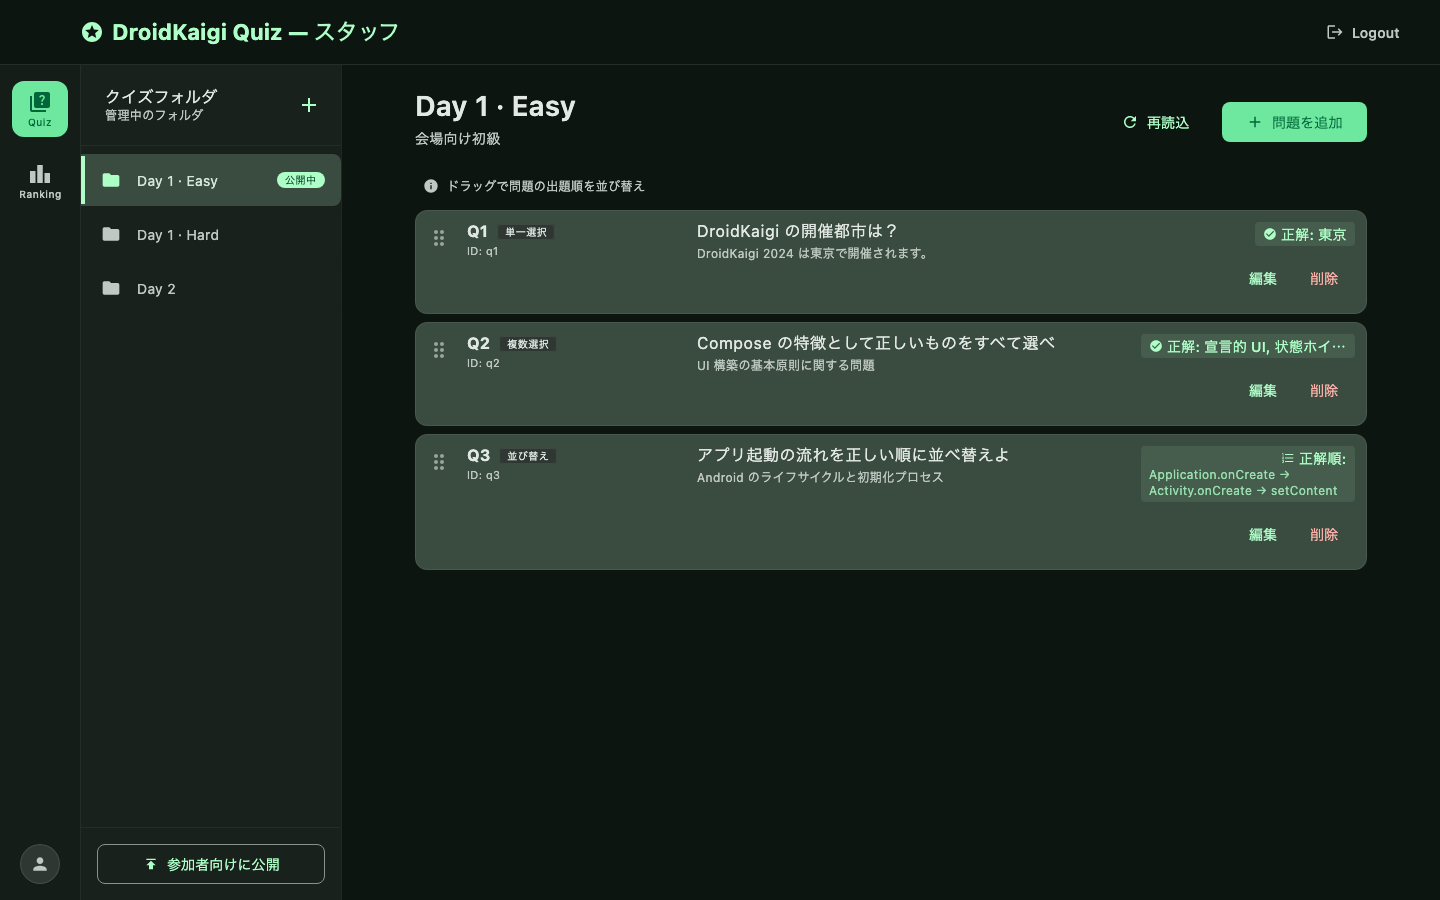
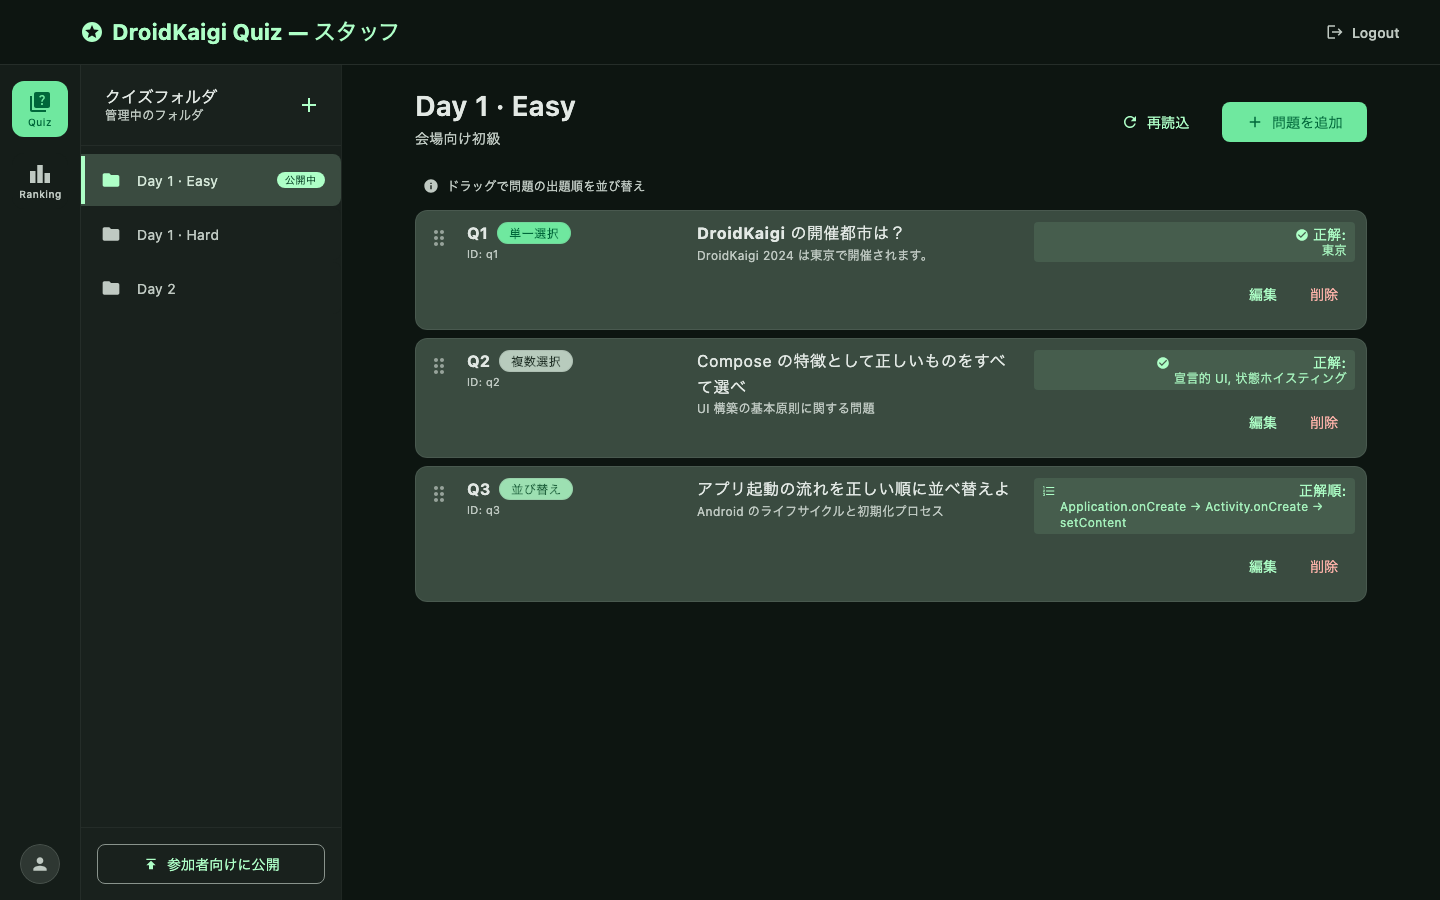
Improve staff question list and editor readability from Stitch.
Widen the editor, add explanation preview, render list prompts as Markdown, color-code type chips, and make correct answers wrap; document Stitch-first UI workflow.

diff --git a/feature/staff/src/commonMain/kotlin/com/droidkaigi/quiz/feature/staff/quiz/StaffQuizScreen.kt b/feature/staff/src/commonMain/kotlin/com/droidkaigi/quiz/feature/staff/quiz/StaffQuizScreen.kt
@@ -13,6 +13,7 @@ import androidx.compose.foundation.layout.fillMaxHeight
 import androidx.compose.foundation.layout.fillMaxSize
 import androidx.compose.foundation.layout.fillMaxWidth
 import androidx.compose.foundation.layout.height
+import androidx.compose.foundation.layout.heightIn
 import androidx.compose.foundation.layout.padding
 import androidx.compose.foundation.layout.size
 import androidx.compose.foundation.layout.width
@@ -38,19 +39,24 @@ import androidx.compose.runtime.setValue
 import androidx.compose.ui.Alignment
 import androidx.compose.ui.Modifier
 import androidx.compose.ui.draw.clip
+import androidx.compose.ui.draw.clipToBounds
 import androidx.compose.ui.draw.shadow
 import androidx.compose.ui.text.font.FontWeight
 import androidx.compose.ui.text.style.TextOverflow
 import androidx.compose.ui.unit.dp
 import androidx.compose.ui.unit.sp
 import androidx.lifecycle.viewmodel.compose.viewModel
+import com.droidkaigi.quiz.core.domain.model.MultipleChoice
 import com.droidkaigi.quiz.core.domain.model.Question
 import com.droidkaigi.quiz.core.domain.model.Reorder
+import com.droidkaigi.quiz.core.domain.model.SingleChoice
+import com.droidkaigi.quiz.core.ui.components.QuizMarkdownText
 import com.droidkaigi.quiz.core.ui.theme.QuizTokens
 import com.droidkaigi.quiz.feature.staff.StaffConfirmDialog
-import com.droidkaigi.quiz.feature.staff.components.StaffBadge
-import com.droidkaigi.quiz.feature.staff.components.StaffContentPane
 import com.droidkaigi.quiz.feature.staff.components.StaffFilledButton
+import com.droidkaigi.quiz.feature.staff.components.StaffQuestionTypeChip
+import com.droidkaigi.quiz.feature.staff.components.StaffQuestionTypeTone
+import com.droidkaigi.quiz.feature.staff.components.StaffContentPane
 import com.droidkaigi.quiz.feature.staff.components.StaffSectionHeader
 import com.droidkaigi.quiz.feature.staff.components.StaffTextButton
 import com.droidkaigi.quiz.feature.staff.components.staffDividerColor
@@ -261,7 +267,10 @@ internal fun StaffQuestionCard(
                     fontWeight = FontWeight.Bold,
                 )
                 Spacer(modifier = Modifier.width(QuizTokens.spacingSmall))
-                StaffBadge(text = questionTypeLabel(question))
+                StaffQuestionTypeChip(
+                    text = questionTypeLabel(question),
+                    type = questionTypeTone(question),
+                )
             }
             Spacer(modifier = Modifier.height(2.dp))
             Text(
@@ -272,13 +281,13 @@ internal fun StaffQuestionCard(
             )
         }
         Spacer(modifier = Modifier.width(QuizTokens.spacingMedium))
-        Column(modifier = Modifier.weight(2f)) {
-            Text(
-                text = question.prompt,
-                style = MaterialTheme.typography.bodyLarge,
-                maxLines = 2,
-                overflow = TextOverflow.Ellipsis,
-            )
+        Column(
+            modifier = Modifier
+                .weight(1.5f)
+                .heightIn(max = 96.dp)
+                .clipToBounds(),
+        ) {
+            QuizMarkdownText(question.prompt)
             if (question.explanationMarkdown.isNotBlank()) {
                 Spacer(modifier = Modifier.height(4.dp))
                 Text(
@@ -292,7 +301,7 @@ internal fun StaffQuestionCard(
         }
         Spacer(modifier = Modifier.width(QuizTokens.spacingMedium))
         Column(
-            modifier = Modifier.weight(1f),
+            modifier = Modifier.weight(1.5f),
             horizontalAlignment = Alignment.End,
         ) {
             StaffCorrectAnswerChip(question = question)
@@ -315,12 +324,13 @@ private fun StaffCorrectAnswerChip(question: Question) {
     val answer = correctAnswerText(question)
     Column(
         modifier = Modifier
+            .fillMaxWidth()
             .clip(RoundedCornerShape(4.dp))
             .background(MaterialTheme.colorScheme.primary.copy(alpha = 0.1f))
             .padding(horizontal = QuizTokens.spacingSmall, vertical = 4.dp),
         horizontalAlignment = Alignment.End,
     ) {
-        Row(verticalAlignment = Alignment.CenterVertically) {
+        Row(verticalAlignment = Alignment.Top) {
             Icon(
                 imageVector = if (question is Reorder) {
                     Icons.Default.FormatListNumbered
@@ -329,26 +339,31 @@ private fun StaffCorrectAnswerChip(question: Question) {
                 },
                 contentDescription = null,
                 tint = MaterialTheme.colorScheme.primary,
-                modifier = Modifier.size(14.dp),
+                modifier = Modifier
+                    .padding(top = 2.dp)
+                    .size(14.dp),
             )
             Spacer(modifier = Modifier.width(4.dp))
-            Text(
-                text = if (question is Reorder) "正解順:" else "正解: $answer",
-                style = MaterialTheme.typography.bodyMedium,
-                fontWeight = FontWeight.Medium,
-                color = MaterialTheme.colorScheme.primary,
-                maxLines = 1,
-                overflow = TextOverflow.Ellipsis,
-            )
-        }
-        if (question is Reorder) {
-            Text(
-                text = answer,
-                style = MaterialTheme.typography.bodySmall,
-                color = MaterialTheme.colorScheme.primary.copy(alpha = 0.8f),
-                maxLines = 2,
-                overflow = TextOverflow.Ellipsis,
-            )
+            Column(horizontalAlignment = Alignment.End) {
+                Text(
+                    text = if (question is Reorder) "正解順:" else "正解:",
+                    style = MaterialTheme.typography.bodyMedium,
+                    fontWeight = FontWeight.Medium,
+                    color = MaterialTheme.colorScheme.primary,
+                )
+                Text(
+                    text = answer,
+                    style = MaterialTheme.typography.bodySmall,
+                    color = MaterialTheme.colorScheme.primary.copy(alpha = 0.9f),
+                    softWrap = true,
+                )
+            }
         }
     }
+}
+
+private fun questionTypeTone(question: Question): StaffQuestionTypeTone = when (question) {
+    is SingleChoice -> StaffQuestionTypeTone.SingleChoice
+    is MultipleChoice -> StaffQuestionTypeTone.MultipleChoice
+    is Reorder -> StaffQuestionTypeTone.Reorder
 }

diff --git a/feature/staff/src/commonMain/kotlin/com/droidkaigi/quiz/feature/staff/components/StaffComponents.kt b/feature/staff/src/commonMain/kotlin/com/droidkaigi/quiz/feature/staff/components/StaffComponents.kt
@@ -33,6 +33,7 @@ import androidx.compose.ui.Modifier
 import androidx.compose.ui.draw.clip
 import androidx.compose.ui.graphics.Color
 import androidx.compose.ui.graphics.vector.ImageVector
+import androidx.compose.ui.text.font.FontWeight
 import androidx.compose.ui.unit.Dp
 import androidx.compose.ui.unit.dp
 import androidx.compose.ui.unit.sp
@@ -138,7 +139,7 @@ fun StaffOutlinedButton(
     }
 }
 
-/** Neutral metadata chip (question type, question id). */
+/** Neutral metadata chip (question id, etc.). */
 @Composable
 fun StaffBadge(text: String, modifier: Modifier = Modifier) {
     Text(
@@ -152,6 +153,43 @@ fun StaffBadge(text: String, modifier: Modifier = Modifier) {
             .border(1.dp, staffDividerColor(), RoundedCornerShape(4.dp))
             .padding(horizontal = QuizTokens.spacingSmall, vertical = 2.dp),
     )
+}
+
+/**
+ * Color-coded question-type chip (Stitch: larger pill, distinct container tones).
+ * Single → primaryContainer · Multiple → secondary · Reorder → tertiaryContainer.
+ */
+@Composable
+fun StaffQuestionTypeChip(text: String, type: StaffQuestionTypeTone, modifier: Modifier = Modifier) {
+    val background = when (type) {
+        StaffQuestionTypeTone.SingleChoice -> MaterialTheme.colorScheme.primaryContainer
+        // secondaryContainer matches question-card fill; use secondary for contrast on cards.
+        StaffQuestionTypeTone.MultipleChoice -> MaterialTheme.colorScheme.secondary
+        StaffQuestionTypeTone.Reorder -> MaterialTheme.colorScheme.tertiaryContainer
+    }
+    val content = when (type) {
+        StaffQuestionTypeTone.SingleChoice -> MaterialTheme.colorScheme.onPrimaryContainer
+        StaffQuestionTypeTone.MultipleChoice -> MaterialTheme.colorScheme.onSecondary
+        StaffQuestionTypeTone.Reorder -> MaterialTheme.colorScheme.onTertiaryContainer
+    }
+    Text(
+        text = text,
+        style = MaterialTheme.typography.labelMedium,
+        fontSize = 12.sp,
+        fontWeight = FontWeight.Bold,
+        color = content,
+        modifier = modifier
+            .clip(CircleShape)
+            .background(background)
+            .border(1.dp, staffDividerColor(), CircleShape)
+            .padding(horizontal = 12.dp, vertical = 4.dp),
+    )
+}
+
+enum class StaffQuestionTypeTone {
+    SingleChoice,
+    MultipleChoice,
+    Reorder,
 }
 
 /** Accent pill marking the folder participants currently see. */

diff --git a/feature/staff/src/commonMain/kotlin/com/droidkaigi/quiz/feature/staff/quiz/StaffQuestionEditorPanel.kt b/feature/staff/src/commonMain/kotlin/com/droidkaigi/quiz/feature/staff/quiz/StaffQuestionEditorPanel.kt
@@ -64,6 +64,7 @@ fun StaffQuestionEditorPanel(
 ) {
     var typeMenuExpanded by remember { mutableStateOf(false) }
     var showPromptPreview by remember { mutableStateOf(false) }
+    var showExplanationPreview by remember { mutableStateOf(false) }
 
     val borderColor = staffDividerColor()
     Column(
@@ -171,7 +172,7 @@ fun StaffQuestionEditorPanel(
                     colors = staffFieldColors(),
                     modifier = Modifier
                         .fillMaxWidth()
-                        .height(96.dp),
+                        .height(144.dp),
                 )
                 if (showPromptPreview && draft.prompt.isNotBlank()) {
                     QuizMarkdownText(draft.prompt)
@@ -189,7 +190,18 @@ fun StaffQuestionEditorPanel(
             }
 
             Column(verticalArrangement = Arrangement.spacedBy(QuizTokens.spacingSmall)) {
-                StaffFieldLabel(text = "解説", hint = "(Markdown)")
+                Row(
+                    modifier = Modifier.fillMaxWidth(),
+                    horizontalArrangement = Arrangement.SpaceBetween,
+                    verticalAlignment = Alignment.Bottom,
+                ) {
+                    StaffFieldLabel(text = "解説", hint = "(Markdown)")
+                    StaffTextButton(
+                        text = "プレビュー",
+                        icon = Icons.Default.Visibility,
+                        onClick = { showExplanationPreview = !showExplanationPreview },
+                    )
+                }
                 OutlinedTextField(
                     value = draft.explanationMarkdown,
                     onValueChange = { onDraftChange(draft.copy(explanationMarkdown = it)) },
@@ -197,8 +209,11 @@ fun StaffQuestionEditorPanel(
                     colors = staffFieldColors(),
                     modifier = Modifier
                         .fillMaxWidth()
-                        .height(80.dp),
+                        .height(120.dp),
                 )
+                if (showExplanationPreview && draft.explanationMarkdown.isNotBlank()) {
+                    QuizMarkdownText(draft.explanationMarkdown)
+                }
             }
         }
         StaffHorizontalDivider(alpha = 0.15f)

diff --git a/feature/staff/src/jvmTest/kotlin/com/droidkaigi/quiz/feature/staff/StaffScreenshotJvmUiTest.kt b/feature/staff/src/jvmTest/kotlin/com/droidkaigi/quiz/feature/staff/StaffScreenshotJvmUiTest.kt
@@ -339,7 +339,7 @@ private val sampleShellState = StaffShellUiState(
 private val sampleQuestions = listOf(
     SingleChoice(
         id = "q1",
-        prompt = "DroidKaigi の開催都市は？",
+        prompt = "**DroidKaigi** の開催都市は？",
         explanationMarkdown = "DroidKaigi 2024 は東京で開催されます。",
         options = listOf(
             ChoiceOption("opt1", "東京"),
@@ -383,8 +383,8 @@ private val sampleRanking = listOf(
 
 private val sampleEditorDraft = StaffQuestionDraft(
     id = "q1",
-    prompt = "DroidKaigi の開催都市は？",
-    explanationMarkdown = "東京で開催されます。",
+    prompt = "**DroidKaigi** の開催都市は？",
+    explanationMarkdown = "東京で開催されます。`venue` は会場側の設定です。",
     type = StaffQuestionType.SingleChoice,
     items = listOf(
         StaffListItem("opt1", "東京"),

diff --git a/core/ui/src/commonMain/kotlin/com/droidkaigi/quiz/core/ui/theme/QuizTokens.kt b/core/ui/src/commonMain/kotlin/com/droidkaigi/quiz/core/ui/theme/QuizTokens.kt
@@ -85,7 +85,7 @@ object QuizTokens {
     // Staff console layout metrics (1440x900 desktop reference).
     val staffNavRailWidth = 80.dp
     val staffSidebarWidth = 260.dp
-    val staffEditorPanelWidth = 450.dp
+    val staffEditorPanelWidth = 560.dp
     val staffContentMaxWidth = 1000.dp
     val staffTopBarHeight = 64.dp
     val staffTableRowHeight = 56.dp

diff --git a/.cursor/skills/droidkaigi-quiz/SKILL.md b/.cursor/skills/droidkaigi-quiz/SKILL.md
@@ -9,18 +9,20 @@ description: Master workflow for DroidKaigi 2026 Quiz — new screens, features,
 
 1. Read AC in `docs/SPEC.md`
 2. Confirm module from `AGENTS.md`
+3. Visual UI changes: follow `.cursor/rules/quiz-stitch-source.mdc` — **feedback → Stitch → implement from Stitch** (do not finalize layout in code first)
 
 ## Order
 
 1. **Domain** — models, `QuizScorer` / use cases, `commonTest`
 2. **Data** — repository if needed, wire `AppDependencies.shared`
-3. **UI** — tokens/components in `core:ui` if reusable
-4. **Feature** — Screen + ViewModel (MVI 4 files)
-5. **Nav** — register route in `composeApp/.../QuizNavHost.kt`
-6. **Test** — see `.cursor/skills/droidkaigi-quiz-test/SKILL.md`
-7. **Verify** — see `.cursor/skills/droidkaigi-quiz-verify/SKILL.md`
-8. **Staff UI PR screenshots** — 管理者アプリ UI 変更時は `.cursor/skills/staff-pr-screenshots/SKILL.md`（必須・比較表で埋め込み）
-9. **Review** — see `.cursor/skills/droidkaigi-quiz-review/SKILL.md`（PR 前）
+3. **Stitch** (visual UI) — update design from feedback; treat Stitch proposal as primary
+4. **UI** — tokens/components in `core:ui` if reusable
+5. **Feature** — Screen + ViewModel (MVI 4 files)
+6. **Nav** — register route in `composeApp/.../QuizNavHost.kt`
+7. **Test** — see `.cursor/skills/droidkaigi-quiz-test/SKILL.md`
+8. **Verify** — see `.cursor/skills/droidkaigi-quiz-verify/SKILL.md`
+9. **Staff UI PR screenshots** — 管理者アプリ UI 変更時は `.cursor/skills/staff-pr-screenshots/SKILL.md`（必須・比較表で埋め込み）
+10. **Review** — see `.cursor/skills/droidkaigi-quiz-review/SKILL.md`（PR 前）
 
 参加者アプリを実機で通しレビューして指摘を Issue 化するときは `.cursor/skills/droidkaigi-quiz-device-review/SKILL.md`
 

diff --git a/AGENTS.md b/AGENTS.md
@@ -28,7 +28,7 @@ Dependency direction: `feature → core:ui, domain` · `data → domain` · `com
 - Spec: [docs/SPEC.md](docs/SPEC.md)
 - Firestore (prod DB): [docs/FIRESTORE.md](docs/FIRESTORE.md) · CLI: [firebase.json](firebase.json)
 - Verify: [docs/VERIFY.md](docs/VERIFY.md)
-- Rules: [.cursor/rules/](.cursor/rules/) (`quiz-app-core`, `quiz-feature`, `quiz-domain-data`, `quiz-animation`, `quiz-android-pr-screenshots`, `quiz-staff-pr-screenshots`)
+- Rules: [.cursor/rules/](.cursor/rules/) (`quiz-app-core`, `quiz-feature`, `quiz-domain-data`, `quiz-animation`, `quiz-android-pr-screenshots`, `quiz-staff-pr-screenshots`, `quiz-stitch-source`)
 
 ## Skills
 
